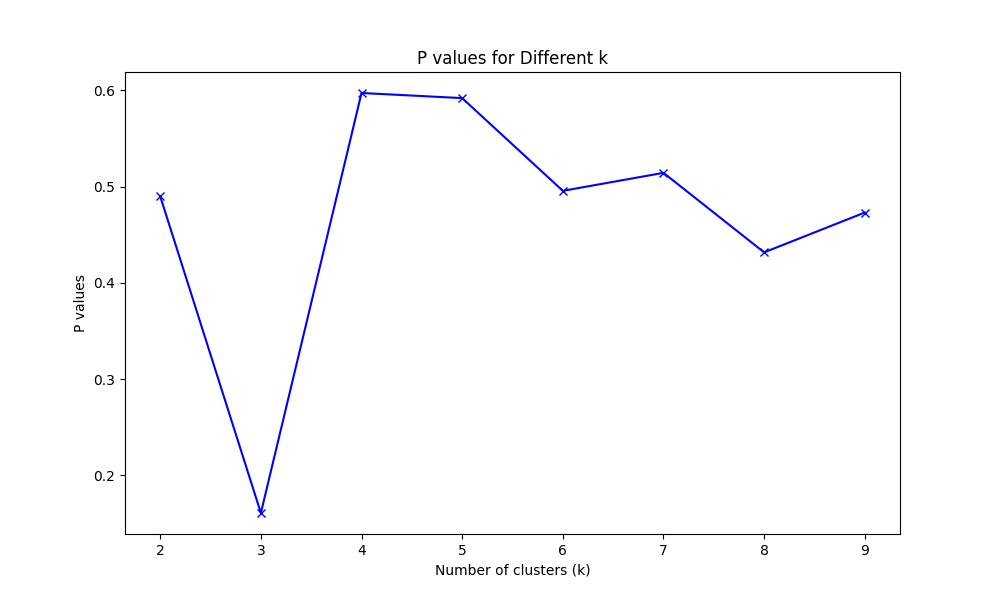
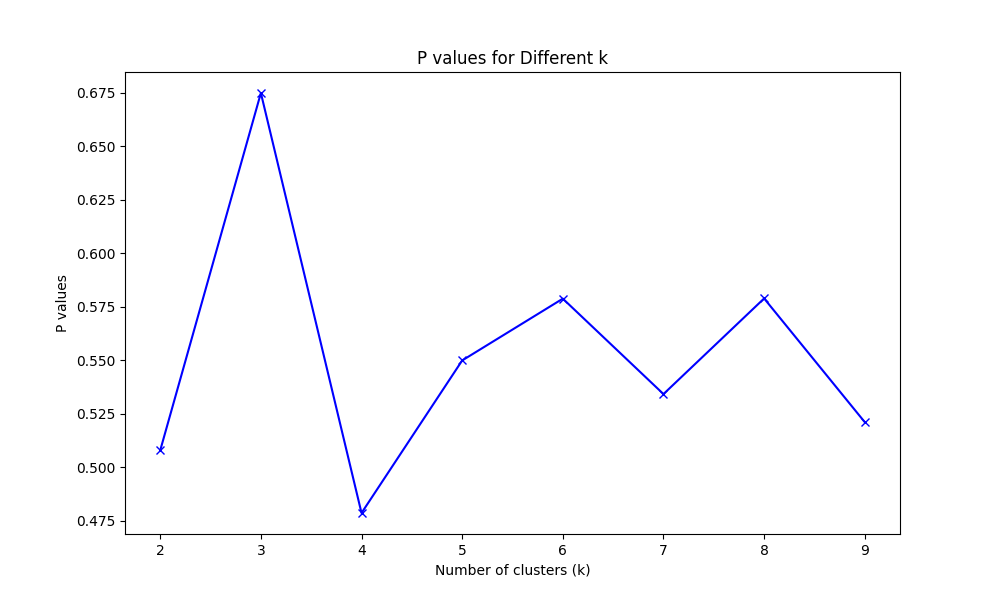
new results

diff --git a/model/model2.py b/model/model2.py
@@ -95,14 +95,14 @@ mirna_expression_scaled = scaler.fit_transform(mirna_expression_data)
 
 # PCA降维
 pca_gene = PCA(n_components=1000)
-pca_dna = PCA(n_components=10000)
+pca_dna = PCA(n_components=3000)
 pca_mirna = PCA(n_components=100)
-
-print("PCA step completed")
 
 gene_expression_pca = pca_gene.fit_transform(gene_expression_scaled)
 dna_methylation_pca = pca_dna.fit_transform(dna_methylation_scaled)
 mirna_expression_pca = pca_mirna.fit_transform(mirna_expression_scaled)
+
+print("PCA step completed")
 
 # 数据整合
 integrated_data = np.concatenate([gene_expression_pca, dna_methylation_pca, mirna_expression_pca], axis=1)
@@ -137,11 +137,8 @@ class ImprovedMultiOmicsNN(nn.Module):
             nn.ReLU()
         )
         self.fc_dna = nn.Sequential(
-            nn.Linear(10000, 6480),
-            nn.ReLU(),
-            nn.Linear(6480, 2560),
-            nn.ReLU(),
-            nn.Linear(2560, 1280),
+
+            nn.Linear(3000, 1280),
             nn.ReLU(),
             nn.Linear(1280, 640),
             nn.ReLU(),
@@ -163,13 +160,13 @@ class ImprovedMultiOmicsNN(nn.Module):
         self.fc_combined = nn.Sequential(
             nn.Linear(32 * 3, 64),
             nn.ReLU(),
-            nn.Linear(64, 11100)
+            nn.Linear(64, 4100)
         )
 
     def forward(self, x_integrated):
         x_gene_encoded = self.fc_gene(x_integrated[:, :1000])
-        x_dna_encoded = self.fc_dna(x_integrated[:, 10000:20000])
-        x_mirna_encoded = self.fc_mirna(x_integrated[:, 20000:])
+        x_dna_encoded = self.fc_dna(x_integrated[:, 1000:4000])
+        x_mirna_encoded = self.fc_mirna(x_integrated[:, 4000:])
         x_combined = torch.cat((x_gene_encoded, x_dna_encoded, x_mirna_encoded), dim=1)
         output = self.fc_combined(x_combined)
         return output
@@ -327,3 +324,4 @@ find_optimal_k_and_plot(clinical_data, all_outputs, range(2, 10))
 
 
 #jupyter notebook --no-browser --port=8857 --ip=127.0.0.1 --allow-root
+#ssh -L 8857:localhost:8857 zxzhu@218.199.69.54

diff --git a/model/transformer.py b/model/transformer.py
@@ -86,7 +86,7 @@ mirna_expression_scaled = scaler.fit_transform(mirna_expression_data)
 # 使用PCA进行降维
 pca_gene = PCA(n_components=1000)
 # Adjusting n_components for dna_methylation PCA
-pca_dna = PCA(n_components=min(7000, dna_methylation_data.shape[1]))
+pca_dna = PCA(n_components=3000)
 pca_mirna = PCA(n_components=100)
 
 print("PCA step completed")
